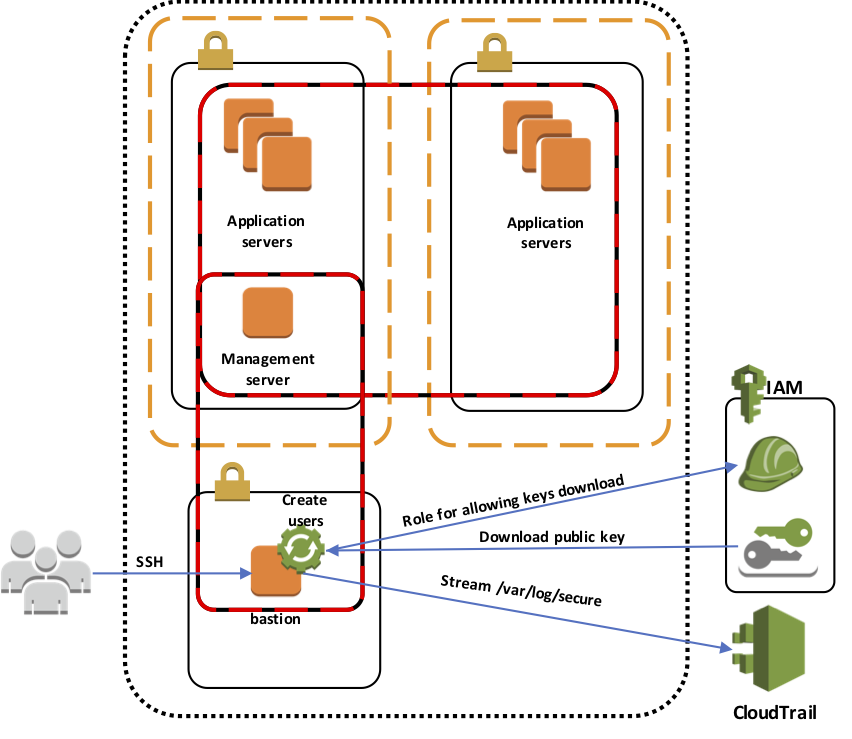
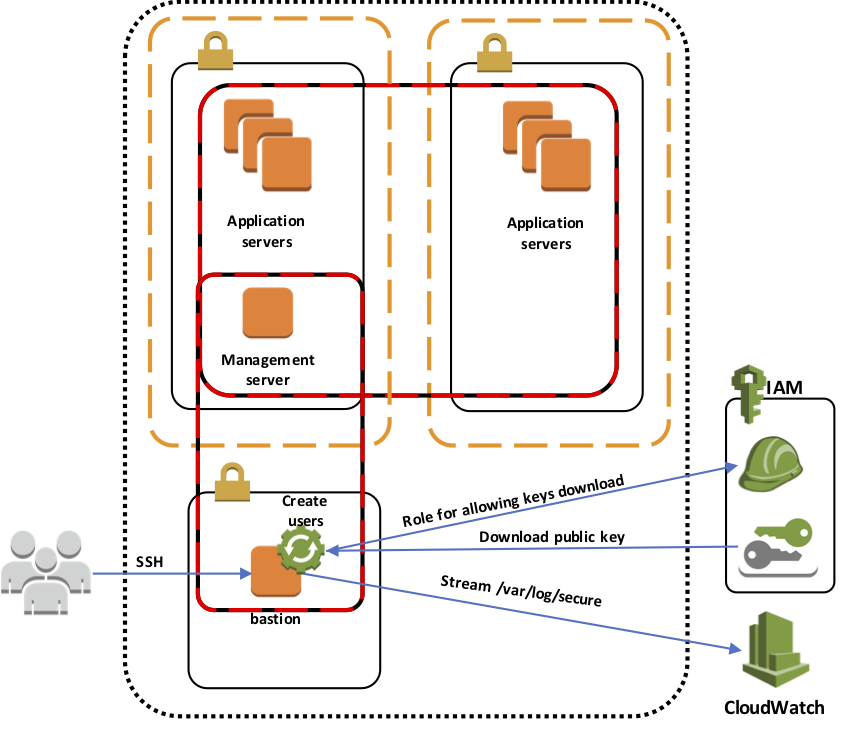
ssh audit

diff --git a/continuous-security-in-the-cloud-buildstuff/index.html b/continuous-security-in-the-cloud-buildstuff/index.html
@@ -807,7 +807,14 @@ resource "aws_security_group_rule" "bastion_ssh_egress_to_mgmtserver_security_ru
 
       <section>
         <img height="600" src="img/ssh_audit.png" alt="SSH Audit">
-        <aside class="notes"></aside>
+        <aside class="notes">
+        <ul>
+          <li>Create ordinary users in AWS IAM, assign them to a group (e. g. Developers) and upload your personal public ssh-key</li>
+          <li>A cron jobb on the bastion host with a role allowing downloads of these keys pulls them to the server</li>
+          <li>The cron job creates individual user for each developer and adds the key to the authorized_keys file</li>
+          <li>Removing a developer from IAM also deletes the user from the bastion host</li>
+          <li>By streaming /var/log/secure to CloudWatch you get a nice audit log for all logins on the server</li>
+        </aside>
       </section>
 
       <section>
